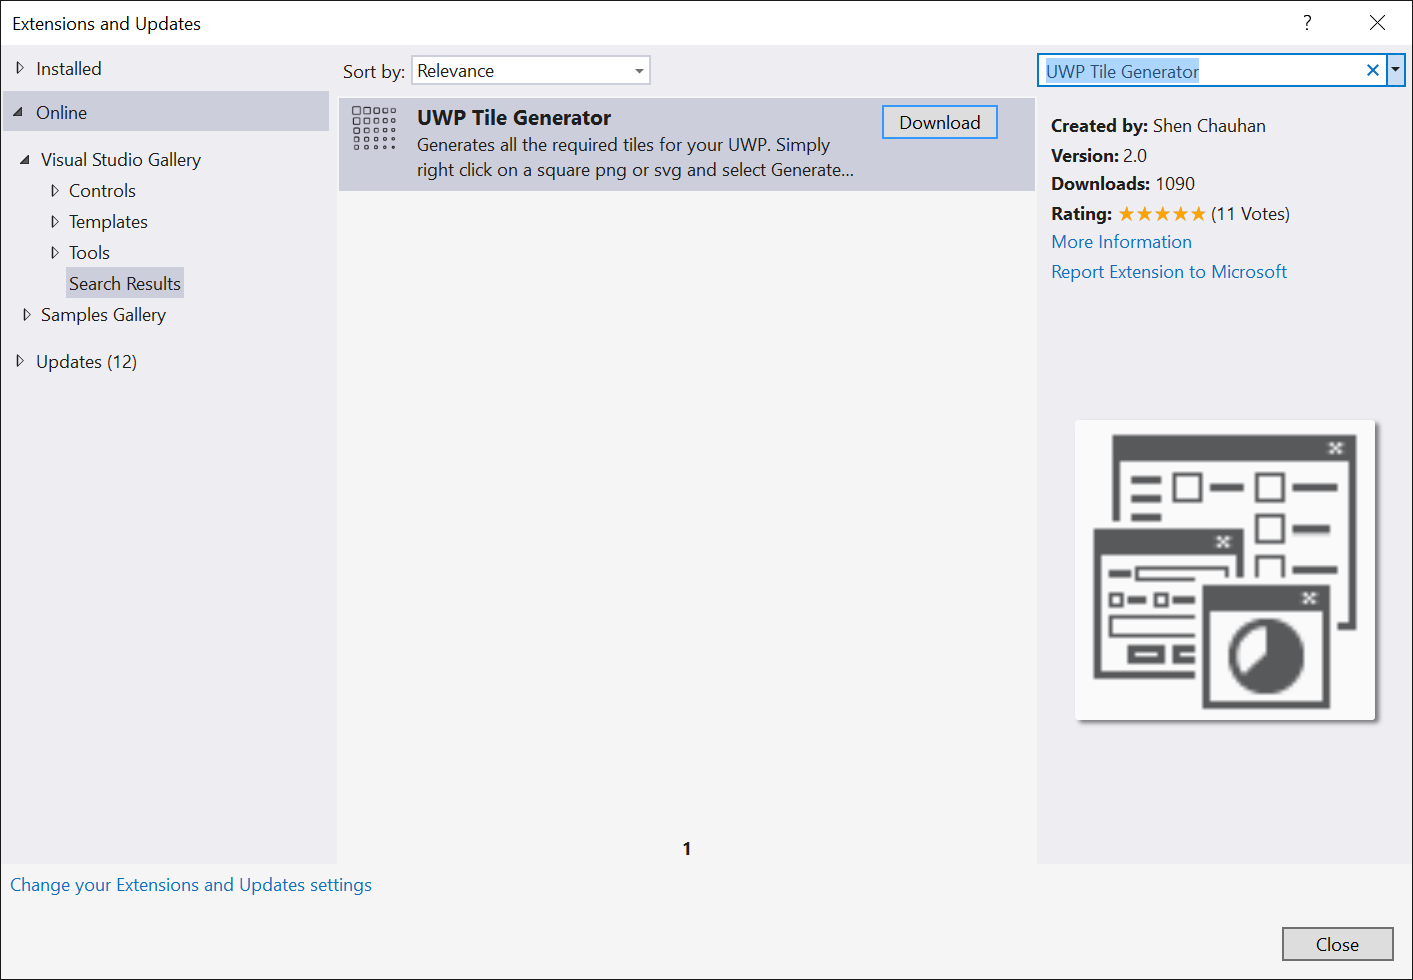
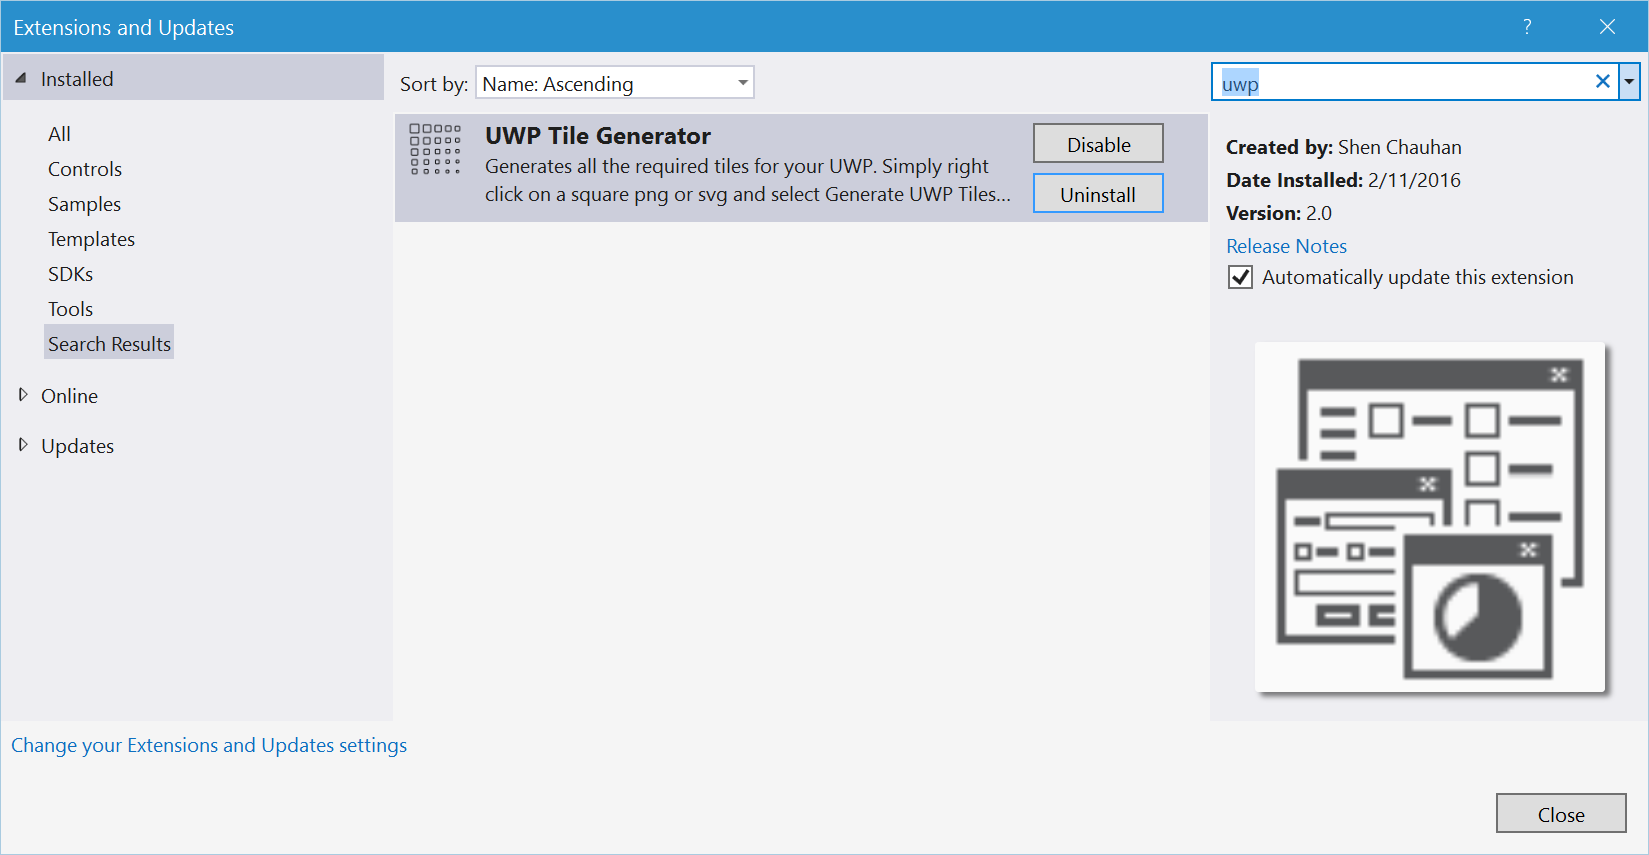
Removed Close_3D steps, made Notifications Visualizer an instructor demo

diff --git a/Workshop/Module1-AdaptiveUI/Source/Begin/Microsoft.Labs.SightsToSee/Microsoft.Labs.SightsToSee/Views/TripDetailPage.xaml b/Workshop/Module1-AdaptiveUI/Source/Begin/Microsoft.Labs.SightsToSee/Microsoft.Labs.SightsToSee/Views/TripDetailPage.xaml
@@ -183,9 +183,20 @@
                                 
                             </maps:MapControl>
 
-                            <!--Insert the M1_Close3DX snippet here-->
-                            
-
+                            <Button Style="{StaticResource CircleButtonStyle}"
+                            Grid.Row="1"
+                            Click="{x:Bind ViewModel.Close3D}"
+                            VerticalAlignment="Top"
+                            HorizontalAlignment="Right"
+                            Margin="24"
+                            Visibility="{x:Bind ViewModel.IsDisplay3D, Mode=OneWay, Converter={StaticResource BooleanToVisibilityConverter}}">
+                                <FontIcon
+                            x:Name="CloseView3D"
+                            VerticalAlignment="Center"
+                            FontFamily="{ThemeResource SymbolThemeFontFamily}"
+                            FontSize="16"
+                            Glyph="&#xE10A;" />
+                            </Button>
                         </Grid>
                     </RelativePanel>
                 </PivotItem>

diff --git a/Workshop/Module1-AdaptiveUI/Source/Begin/Microsoft.Labs.SightsToSee/Microsoft.Labs.SightsToSee/ViewModels/TripDetailPageViewModel.cs b/Workshop/Module1-AdaptiveUI/Source/Begin/Microsoft.Labs.SightsToSee/Microsoft.Labs.SightsToSee/ViewModels/TripDetailPageViewModel.cs
@@ -254,10 +254,17 @@ namespace Microsoft.Labs.SightsToSee.ViewModels
             await Launcher.LaunchUriAsync(mapsUri, launcherOptions);
         }
 
-        // Insert the M1_Close3D snippet here
-
 
         // Insert the M1_Show3D snippet here
+
+        
+
+        public async void Close3D()
+        {
+            IsDisplay3D = false;
+            Map.Style = MapStyle.Road;
+            await Map.TrySetViewAsync(_currentSight.Location, 13, 0, 0);
+        }
 
 
         public void SightClicked(object sender, ItemClickEventArgs args)

diff --git a/Workshop/Module1-AdaptiveUI/README.md b/Workshop/Module1-AdaptiveUI/README.md
@@ -33,7 +33,7 @@ In this module, you will see how to:
 The following is required to complete this module:
 
 - Microsoft Windows 10
-- Microsoft Visual Studio 2015
+- Microsoft Visual Studio 2015 Update 1 or later
 
 ---
 
@@ -64,7 +64,7 @@ We’re going to begin with a version of the SightsToSee app that has a fixed la
 
 Let’s take a look at how the app is set up and plan an adaptive layout. We’ll begin by walking through the starter project.
 
-1.	In a new instance of Visual Studio 2015, choose **File > Open> Project/Solution**. Browse to **&lt;Lab Root&gt;\Module 1\Begin\Microsoft.Labs.SightsToSee** and open the solution file.
+1.	In a new instance of Visual Studio 2015, choose **File > Open> Project/Solution**. Browse to **C:\Labs\CodeLabs-UWP\Workshop\Module 1-AdaptiveUI\Begin\Microsoft.Labs.SightsToSee** and open the solution file.
 
 1.	Once the project has opened, set your Solution Configuration to **Debug** and your Solution Platform to **x86**. Select **Local Machine** from the Debug Target dropdown menu.
 
@@ -395,31 +395,29 @@ In the next two tasks, we will explore tools that make it easier to design and g
 <a name="Ex2Task1"></a>
 #### Task 1 – Generate default tiles ####
 
-Providing assets for default tiles is a quick and easy way to brand your app, and there are tools that can make it even easier. The UWP Tile Generator extension takes a single logo asset and generates all the different assets you need for a range of default tiles.
+Providing assets for default tiles is a quick and easy way to brand your app, and there are tools that can make it even easier. The UWP Tile Generator is a Visual Studio extension that takes a single logo asset and generates all the different assets you need for a range of default tiles.
 
-In this task, we will add a logo asset to the project, install the UWP Tile Generator, and use it to generate default tiles and splash assets.
+In this task, we will add a logo asset to the project, and use the UWP Tile Generator to generate default tiles and splash assets.
 
-1. Open **Tools > Extensions and Updates** in Visual Studio and browse to the **Online** tab.
+1. Open **Tools > Extensions and Updates** in Visual Studio and browse to the **Installed** tab.
 
-1. Use the search box to search the Visual Studio Gallery for **UWP Tile Generator**.
+1. Use the search box to search for **UWP Tile Generator**.
 
-1. Use the **Download** button to download and install the extension. Follow the prompts in the dialog.
+1. The UWP Tile Generator extension is already installed on the workshop machines. If you need to install it on a dev machine, you can switch to the Online tab, find the extension and then use the **Download** button to download and install the extension. 
 
-	![Install the UWP Tile Generator extension](Images/uwp_tile_extension.png?raw=true "Install the UWP Tile Generator extension")
+	![The UWP Tile Generator extension](Images/uwp_tile_extension.png?raw=true "The UWP Tile Generator extension")
 
-	_Install the UWP Tile Generator extension_
+	_The UWP Tile Generator extension_
 
-1. Once the install process is complete, restart Visual Studio. When Visual Studio reopens, the extension will be available for use.
-
-1. Now that the extension is installed, we can add a logo asset to the project and use the extension to generate default tile and splash assets.
+1. The UWP Tile Generator extension is a tool to quickly and easily create Tile assets for a UWP project. We can add a logo asset to the project and use the extension to generate default tile and splash assets.
 
 	First, open the **Package.appxmanifest** and browse to the **Visual Assets** tab. Select **All Image Assets** to view the current tiles and splash assets. You’ll see that the placeholder UWP app tile appears for the recommended tile sizes.
 
-1. Right-click on the **Assets** directory in the Solution Explorer and choose **Add > Existing Item**. Add the logo asset from **&lt;LabRoot&gt;\Module 1\Begin\Assets\Tile_Logo.png**.
+1. Right-click on the **Assets** directory in the Solution Explorer and choose **Add > Existing Item**. Add the logo asset from **C:\Labs\CodeLabs-UWP\Workshop\Module 1-AdaptiveUI\Begin\Assets\Tile_Logo.png**.
 
 	> **Note:** The new assets that will be generated using the extension will appear in the same folder as the original image. You may choose to add a subfolder to the Assets directory and place the new logo image in the subfolder for better organization.
 	> 
-	> When using a generator extension, it is a good idea to use a seed image with sufficient resolution for the largest tile and splash assets.
+	> When using a generator extension, it is a good idea to use a high resolution seed image in order to generate good quality results for the largest tile and splash assets.
 
 1. Right-click on the **Tile_Logo.png** asset in the Solution Explorer and select **Generate UWP Tiles** from the context menu.
 
@@ -435,18 +433,22 @@ In this task, we will add a logo asset to the project, install the UWP Tile Gene
 
 1. Stop debugging and return to Visual Studio.
 
+> **Note:** The UWP Tile Generator tool is a quick and easy way to generate Tile assets. In many cases, a designer might well want to use professional image editing tools to create customized artwork for different sizes.
+
 <a name="Ex2Task2"></a>
 #### Task 2 – Create adaptive tiles ####
 
 While default tiles are a great way to start branding your app, adaptive tiles take the user experience to the next level. There are tools available that can help you design and implement adaptive tiles in your UWP app. We will use the Notifications Visualizer app to preview and build adaptive tile XML and the NotificationsExtension NuGet package to generate the XML in the app using code.
 
-1. The **Notifications Visualizer** app is available from the Windows Store. You can install this and use it to help you design tiles and notifications.
+The **Notifications Visualizer** app is available from the Windows Store. You can install this and use it to help you design tiles and notifications.
 
-	![The Notifications Visualizer app is available from the Windows Store](Images/notifications_visualizer_store2.png?raw=true "The Notifications Visualizer app is available from the Windows Store")
+![The Notifications Visualizer app is available from the Windows Store](Images/notifications_visualizer_store2.png?raw=true "The Notifications Visualizer app is available from the Windows Store")
 
-	_The Notifications Visualizer app is available from the Windows Store_
+_The Notifications Visualizer app is available from the Windows Store_
 
-	Do not install it from the store now - it is pre-installed on your computer.
+Do not install it from the store now - it is pre-installed on your computer.
+
+#### Instructor Demo: Using the Notifications Visualizer app
 
 1. Open the Notifications Visualizer app. Use the **Payloads** dropdown menu to browse through the sample tile XML.
 
@@ -456,23 +458,25 @@ While default tiles are a great way to start branding your app, adaptive tiles t
 
 	> **Note:** The image path in the sample XML is defined as a relative path from the Notifications Visualizer app folder.
 
-1. Use the **Pick Folder of XML Files** button to select the **&lt;Lab Root&gt;\Module 1\Begin\Assets** folder in the file explorer. The **AdaptiveTiles.xml** file will automatically load into the XML Payload window.
+1. Use the **Pick Folder of XML Files** button to select the **C:\Labs\CodeLabs-UWP\Workshop\Module 1-AdaptiveUI\Begin\Microsoft.Labs.SightsToSee\Assets** folder in the file explorer. The **AdaptiveTiles.xml** file will automatically load into the XML Payload window.
 
     > **Note:** For more on adaptive tile and toast schema and implementation, check out the **Help (?)** section of the Notifications Visualizer app or visit https://msdn.microsoft.com/en-us/library/windows/apps/xaml/mt185606.aspx
 
 1. Open the **Settings** pane in the Notifications Visualizer app. Set the tile background color to **#2da092**.
 
-1. Click the placeholder **Square44x44Logo** and use the file picker to replace it with the **Square44x44Logo.scale-100.png** asset from the SightsToSee app Assets folder. Repeat the process with the other logos declared in the Settings pane.
+1. Click the placeholder **Square44x44Logo** and use the file picker to replace it with the **Square44x44Logo.scale-100.png** asset from the SightsToSee app Assets folder. You can repeat the process with the other logos declared in the Settings pane.
 
 1. Change the app preview name to **SightsToSee**.
 
-1. Return to the tile preview. Pin the tile to the Start Menu.
+1. Return to the tile preview. 
 
-1. Now that we’ve examined the structure of the adaptive tile XML, let’s add adaptive tiles to the SightsToSee app.
+    ##### End of Instructor Demo #####
+    
+#### Workshop Steps ####
 
-	The **Notifications Extensions** NuGet package helps to generate tile, toast, and badge notifications for Windows 10 using code instead of XML, which gives you access to Intellisense.
+Now that we’ve examined the structure of the adaptive tile XML, let’s add adaptive tiles to the SightsToSee app. We will use the **Notifications Extensions** NuGet package to help to generate tile, toast, and badge notifications for Windows 10 using code instead of XML, which also gives you access to Intellisense.
 
-	The structure of the XML we’re going to generate with code will reflect the structure of the XML file we just previewed in the Notifications Visualizer app.
+The structure of the XML we’re going to generate with code will reflect the structure of the XML file we just previewed in the Notifications Visualizer app.
 
 1. Return to Visual Studio and right-click on the **SightsToSee** project name in the Solution Explorer. Select **Manage NuGet packages** from the context menu.
 
@@ -480,7 +484,7 @@ While default tiles are a great way to start branding your app, adaptive tiles t
 
 1. Install the **NotificationsExtensions.Win10** NuGet Package.
 
-1. In the Solution Explorer, right-click on the **Services > TileNotificationService** folder and choose **Add > Existing Item**. Browse to the **&lt;LabRoot&gt;\Module 1\Begin\Assets** folder and add **TileHelper.cs**.
+1. In the Solution Explorer, right-click on the **Services > TileNotificationService** folder and choose **Add > Existing Item**. Browse to the **C:\Labs\CodeLabs-UWP\Workshop\Module 1-AdaptiveUI\Begin\Assets** folder and add **TileHelper.cs**.
 
     > **Note:** The TileHelper generates XML similar to the XML we previewed in the Notifications Visualizer app. It looks for the first five Sights added to a Trip, and displays a peek image from each Sight along with the Sight name and description on an adaptive tile. The TileHelper also generates the tile notification.
 
@@ -650,43 +654,11 @@ In this task, we will display the Sights as PushPins on the map, enable Aerial3D
 														 Tapped="MapPinTapped">
 	````
 
-1. We will need a button to close the Aerial3D interface and return to the previous Map view. Expand the snippet **M1_Close3DX** immediately after the closing tag of the MapControl.
-
-	````XAML
-	<Button Style="{StaticResource CircleButtonStyle}"
-					  Grid.Row="1"
-					  Click="{x:Bind ViewModel.Close3D}"
-					  VerticalAlignment="Top"
-					  HorizontalAlignment="Right"
-					  Margin="24"
-					  Visibility="{x:Bind ViewModel.IsDisplay3D,
-					  Mode=OneWay, Converter={StaticResource
-					  BooleanToVisibilityConverter}}">
-		<FontIcon x:Name="CloseView3D"
-					VerticalAlignment="Center"
-					FontFamily="{ThemeResource SymbolThemeFontFamily}"
-					FontSize="16"
-					Glyph="&#xE10A;" />
-	</Button>
-	````
-
-	> **Note:** Streetside has a close button in its interface, but Aerial3D does not.
-
 1. Open **ViewModels > TripDetailPageViewModel.cs**. Expand the **M1_Close3D** and **M1_Show3D** snippets anywhere within the view model.
 
 	The **Show3D()** method hides the flyout and sets the Map style to **Aerial3DWithRoads**. It also sets the scene by controlling the pitch, direction, and radius of the 3D view.
 
-	The **Close3D()** method sets the Map style back to **Road** and centers the map around the selected location.
-
-	````C#
-	public async void Close3D()
-	{
-		IsDisplay3D = false;
-		Map.Style = MapStyle.Road;
-		await Map.TrySetViewAsync(_currentSight.Location, 13, 0, 0);
-	}
-
-	public async void Show3D(object sender, RoutedEventArgs e)
+		public async void Show3D(object sender, RoutedEventArgs e)
 	{
 		Flyout?.Hide();
 		// sender is the button - and the data context is the Sight
